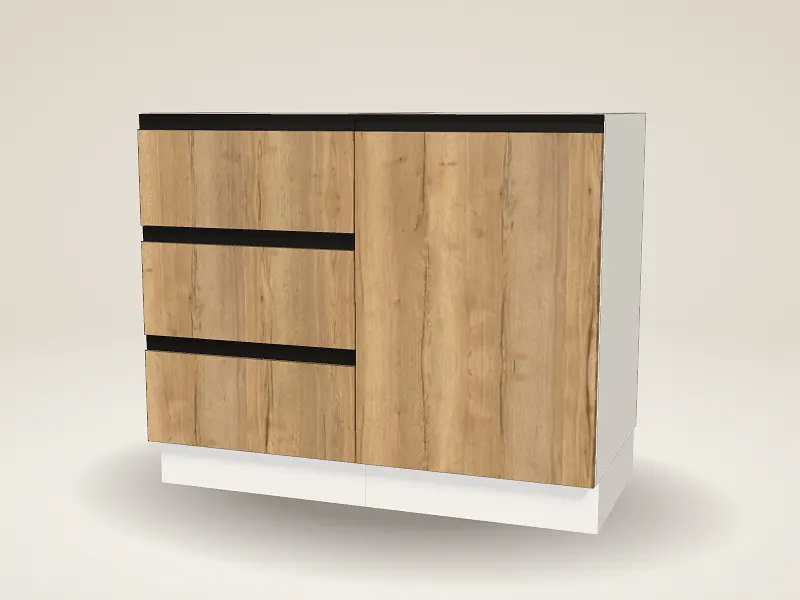
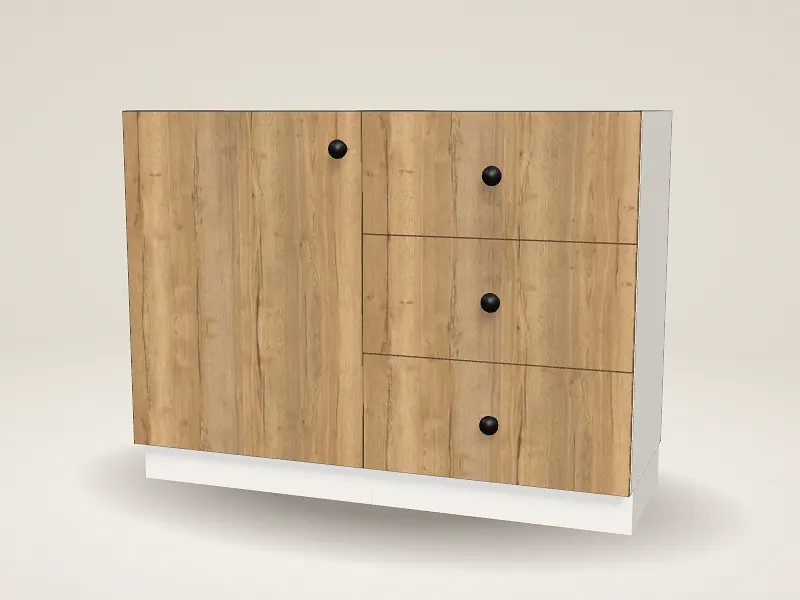
magazin: poze v3 lot 9 (comode, pantofar, baie) și randarea corectă pentru bufetul de cafea
Claude-Session: https://claude.ai/code/session_01DkYx5WLa5NvGEmk4PJjpx9

diff --git a/scripts/shop-photo-review-pilot.md b/scripts/shop-photo-review-pilot.md
@@ -494,3 +494,44 @@ Door counts: both dressing-camara-90 photos have exactly 4 doors in 2 rows and b
 
 - A15: `The piece is a solid box with its real depth: the side nearer the camera is visible as a plain rectangle of the stated depth with square corners; the far side is never visible; no chamfered or angled side panels.`
 - Tighten A10 in the wording sent to the model: name the forbidden items positively per room (`No coat or wall hook in this living room / bedroom / office.`) instead of the general rule; the general form was ignored again.
+
+---
+
+# Batch 9 (v3) (10 photos)
+
+Reviewed: `/tmp/claude-0/batch9/<slug>/<paletteId>.webp` against the renders and the v3 prompts. Measurements are pixel estimates, ±10%.
+
+| Photo | Verdict | Realism | Notes |
+|---|---|---|---|
+| comoda-baie-80 / alb-casmir | REJECT (borderline) | 8.5 | Door + 3 drawers, steel channels, white body: right. But it reads ~100 cm wide (1.08 wide-to-high against 0.94; 1.8 × the washing machine's width instead of 1.33) and as deep as the machine |
+| comoda-baie-80 / gri-casmir | ACCEPT | 9 | Matches render; bathroom with tub, washing machine, towels and basket on top; ratio 0.97 |
+| comoda-cafea-120 / alb-stejar-natur | REJECT | 8.5 | Mirrored against the catalogue: drawers left, door right (preset: door left, drawers right). Knobs, colours and room are right |
+| comoda-cafea-120 / alb-total | HOLD (ACCEPT once the render is fixed) | 8.5 | Matches the catalogue preset (door left, 3 drawers right, black knobs) but not the render on disk, which is wrong |
+| comoda-inalta-80 / alb-stejar-natur | ACCEPT | 8.5 | 5 oak drawers, steel bars, white body; top ~15 cm above the door handle; reads slightly wide |
+| comoda-inalta-80 / gri-casmir | ACCEPT | 8.5 | 5 drawers, steel bars, greige; beside the room door |
+| comoda-mixta-180 / salvie-stejar | ACCEPT | 8.5 | Door + 4 drawers + door, gold bars, sage on light oak; a lit candle lantern on top |
+| comoda-nisa-140 / salvie-stejar | ACCEPT | 8.5 | 3 drawers left, niche with 2 shelves right, black bars; sofa arm close to the right end |
+| comoda-pantofar-80 / alb-stejar-natur | ACCEPT | 9 | 2 doors, no handles; slim (~30 cm) beside the entrance door; hooks, key bowl, mat |
+| comoda-pantofar-80 / alb-total | ACCEPT | 8.5 | 2 doors, no handles; slim; round mirror reflects wall and ceiling correctly; reads ~5% wide |
+
+C1–C5: every chest is the only cabinet in its photo, tops relate correctly to door handles, all colours are light. A15: all sides are plain rectangles of believable depth.
+
+## Rejects
+
+### comoda-cafea-120: the render on disk is wrong
+`public/magazin/randari/comoda-cafea-120/*.webp` shows 3 drawers on the LEFT, a door on the RIGHT and black Gola channels. The catalogue (`lib/atelier/presets.ts`: USI 600 + SERTARE 600; `lib/shop/products.ts`: BUTON NEGRU) and the v3 prompt say door left, drawers right, black knobs. The render looks like the comoda-birou-90 configuration. Re-render before publishing either photo.
+- alb-total: matches the catalogue. Accept once the render is regenerated and agrees.
+- alb-stejar-natur: mirrored against the catalogue (probably copied from the wrong render). Regenerate with the corrected render and add:
+  - `The door is on the LEFT half, the three drawers are on the RIGHT half.`
+  - `One small black knob on the door, near its right edge at the top; one centred on each drawer.`
+
+### comoda-baie-80 / alb-casmir
+- Prompt additions:
+  - `The cabinet is only one third wider than the washing machine beside it (80 cm against 60 cm) and slightly taller than wide.`
+  - `The cabinet is shallower than the washing machine: its front is set back 20 cm behind the machine's front.`
+  - `No wall hook.`
+
+## New general rule
+
+- A16 (process, not prompt): before generating, check each render's section order (left/right) and handle type against the catalogue preset and the prompt; do not generate while they disagree. comoda-cafea-120 is the second stale render after suspendat-tv-180.
+- For any piece standing beside a washing machine: `State its width as a multiple of the 60 cm machine and say that its front is set back behind the machine's front.`
